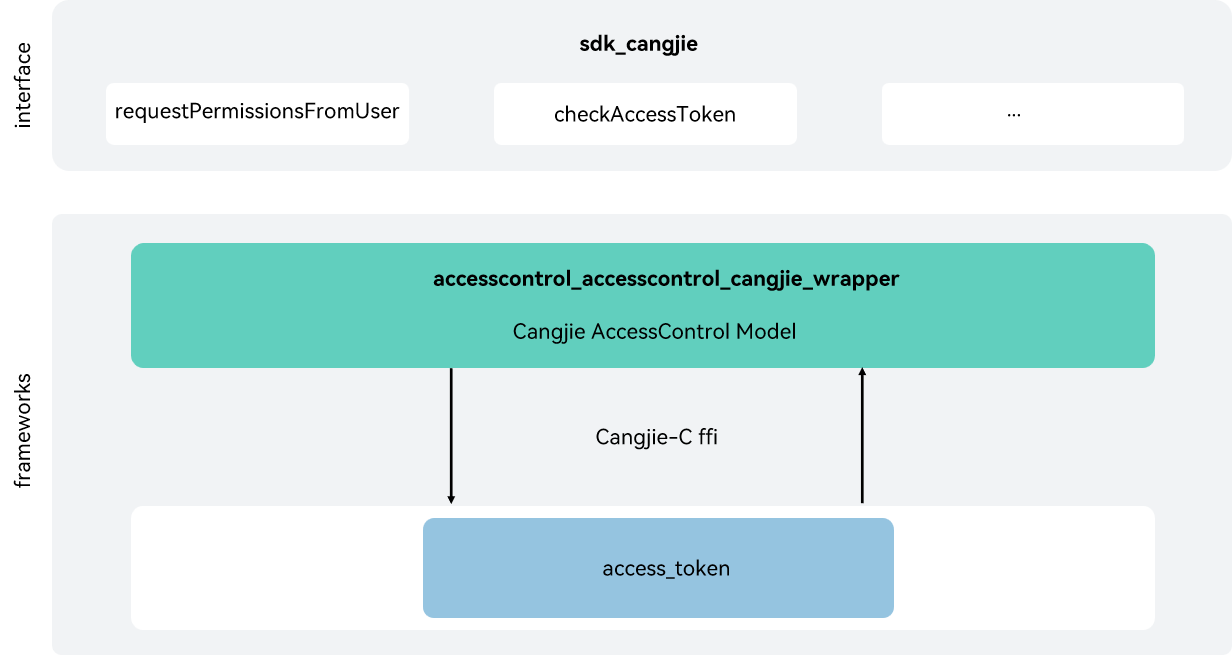
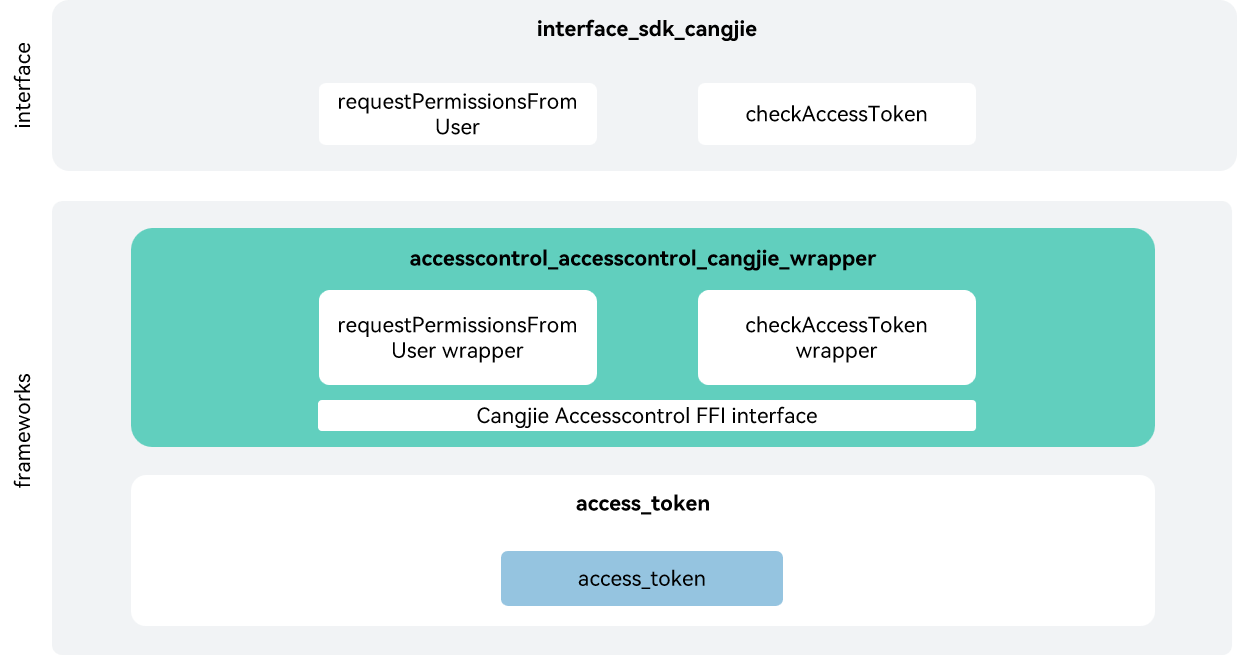
fix_readme_review

diff --git a/README_zh.md b/README_zh.md
@@ -1,37 +1,43 @@
-# 程序访问控制仓颉接口
+# 访问控制仓颉接口
 
 ## 简介
 
-程序访问控制仓颉接口是在OpenHarmony上基于AccessToken能力之上封装的仓颉API。应用的Accesstoken信息主要包括应用身份标识APPID、用户ID，应用分身索引、应用APL(Ability Privilege Level)等级、应用权限信息等。每个应用的Accesstoken信息由一个32bits的设备内唯一标识符TokenID(Token identity)来标识。
+访问控制仓颉接口是在OpenHarmony上基于AccessToken能力之上封装的仓颉API。应用的Accesstoken信息主要包括应用身份标识APPID、用户ID，应用分身索引、应用APL(Ability Privilege Level)等级、应用权限信息等。每个应用的Accesstoken信息由一个32bits的设备内唯一标识符TokenID(Token identity)来标识。仓颉接口提供应用程序的权限校验、申请和管理能力。当前开放的访问控制仓颉接口仅支持standard设备。
 
 ## 系统架构
 
-**图 1** 程序访问控制仓颉架构图
+**图 1** 访问控制仓颉架构图
 
-![](figures/accesscontrol_cangjie_wrapper_architecture.png "程序访问控制仓颉架构图")
+![访问控制仓颉架构图](figures/accesscontrol_cangjie_wrapper_architecture.png)
+
+如架构图所示：
+
+- 请求用户授权：开发者可调用requestPermissionsFromUser接口请求用户授权，并返回此次权限申请的结果。访问控制提供应用程序的权限校验和管理能力。
+- 检验应用权限是否被授予： 开发者可通过checkAccessToken查看应用是否被授权。
+- 仓颉访问控制FFI接口定义：负责定义C互操作仓颉接口，用于实现仓颉访问控制能力。
+- 访问控制模块：负责提供访问控制基础功能，封装C接口提供给仓颉进行互操作。
+
 
 ## 目录
 
-程序访问控制仓颉源码在base/accesscontrol/accesstrol_cangjie_wrapper下
+访问控制仓颉源码在base/accesscontrol/accesstrol_cangjie_wrapper下
 
 ```
 base/accesscontrol/accesscontrol_cangjie_wrapper
-├── figures                 # 存放readme中的架构图
-└── ohos                    # 仓颉程序访问控制接口
-    ├── ability_access_ctrl # 仓颉程序访问控制管理接口
+├── figures                 # 存放README中的架构图
+└── ohos                    # 仓颉访问控制接口
+    ├── ability_access_ctrl # 仓颉访问控制管理接口
     └── security            # 权限请求结果对象
 ```
 
-## 约束
-
-当前开放的程序访问控制仓颉接口仅支持standard设备。
 
 ## 使用说明
 
-如架构图所示，程序访问控制仓颉接口以下功能接口，开发者可以根据使用诉求，综合使用一类或多类接口：
+访问控制仓颉接口提供以下功能，开发者可以根据使用诉求，综合使用一类或多类接口：
 
-  - 程序访问控制提供应用程序的权限校验和管理能力。用户可通过提供的接口申请和查看应用权限。
+  - 访问控制提供应用程序的权限校验和管理能力。开发者可通过提供的接口申请和查看应用权限。
   - 权限请求结果对象可以在用户调用requestPermissionsFromUser接口申请权限时返回此次权限申请的结果。
+
 
 与ArkTS相比，暂不支持以下功能：
 
@@ -39,7 +45,8 @@ base/accesscontrol/accesscontrol_cangjie_wrapper
   - 拉起全局开关设置。
   - 二次拉起权限设置弹窗。
 
-程序访问控制相关API请参见[ohos.ability_access_ctrl（程序访问控制管理）](https://gitcode.com/openharmony-sig/arkcompiler_cangjie_ark_interop/blob/master/doc/API_Reference/source_zh_cn/apis/AbilityKit/cj-apis-ability_access_ctrl.md)，相关指导请参见[程序框架服务开发指南](https://gitcode.com/openharmony-sig/arkcompiler_cangjie_ark_interop/tree/master/doc/Dev_Guide/source_zh_cn/application-models)。
+
+访问控制相关API请参见[ohos.ability_access_ctrl（程序访问控制管理）](https://gitcode.com/openharmony-sig/arkcompiler_cangjie_ark_interop/blob/master/doc/API_Reference/source_zh_cn/apis/AbilityKit/cj-apis-ability_access_ctrl.md)，相关指导请参见[程序框架服务开发指南](https://gitcode.com/openharmony-sig/arkcompiler_cangjie_ark_interop/tree/master/doc/Dev_Guide/source_zh_cn/application-models)。
 
 ## 参与贡献
 
@@ -48,3 +55,11 @@ base/accesscontrol/accesscontrol_cangjie_wrapper
 ## 相关仓
 
 [security_access_token](https://gitee.com/openharmony/security_access_token)
+
+[arkcompiler_cangjie_ark_interop](https://gitcode.com/openharmony-sig/arkcompiler_cangjie_ark_interop)
+
+[ability_ability_cangjie_wrapper](https://gitcode.com/openharmony-sig/ability_ability_cangjie_wrapper)
+
+[arkui_arkui_cangjie_wrapper](https://gitcode.com/openharmony-sig/arkui_arkui_cangjie_wrapper)
+
+[hiviewdfx_hiviewdfx_cangjie_wrapper](https://gitcode.com/openharmony-sig/hiviewdfx_hiviewdfx_cangjie_wrapper)

diff --git a/README.md b/README.md
@@ -2,13 +2,20 @@
 
 ## Introduction
 
-The accesscontrol_cangjie_wrapper is a Cangjie API encapsulated on OpenHarmony based on the access_token capability. The access_token information of the application mainly includes the application identity APPID, user ID, application clone index, application APL (Ability Privilege Level) level, application permission information, etc. The access_token information of each application is identified by a 32-bit unique device identifier, TokenID.
+The accesscontrol_cangjie_wrapper is a Cangjie API encapsulated on OpenHarmony based on the access_token capability. The access_token information of the application mainly includes the application identity APPID, user ID, application clone index, application APL (Ability Privilege Level) level, application permission information, etc. The access_token information of each application is identified by a 32-bit unique device identifier, TokenID. Cangjie apis provides APIs for application permission management, including authentication and authorization. The currently accesscontrol Cangjie api only supports standard devices.
 
 ## System Architecture
 
 **Figure 1** System architecture of accesscontrol_cangjie_wrapper
 
-![](figures/accesscontrol_cangjie_wrapper_architecture_en.png "accesscontrol_cangjie_wrapper architecture")
+![accesscontrol_cangjie_wrapper architecture](figures/accesscontrol_cangjie_wrapper_architecture_en.png)
+
+As shown in the architecture diagram:
+
+- requestPermissionsFromUser: Developers can call the requestPermissionsFromUser to request user authorization, and the result of this permission application will be returned.
+- checkAccessToken: accesscontrol_cangjie_wrapper provides permission verification and management capabilities for applications. Developers can use checkAccessToken to check whether an application has been authorized.
+- Cangjie Accesscontrol FFI interface: Based on cross-language interoperability via C interfaces to implement accesscontrol Cangjie API.
+- access_token: It is responsible for providing basic functions of application access control, and encapsulates C interfaces to provide interoperability for Cangjie.
 
 ## Directory Structure
 
@@ -22,10 +29,6 @@ base/accesscontrol/accesscontrol_cangjie_wrapper
     └── security            # Permission request result object
 ```
 
-## Constraints
-
-The currently open accesscontrol Cangjie api only supports standard devices.
-
 ## Usage Guidelines
 
 The following features are provided:
@@ -33,11 +36,13 @@ The following features are provided:
   - The AbilityAccessCtrl module provides APIs for application permission management, including authentication and authorization.
   - The PermissionRequestResult module defines the permission request result returned by requestPermissionsFromUser.
 
+
 The following features are not provided yet:
 
   - Check the status of application permissions.
   - Displays a dialog box for setting a global swich.
   - Displays a permission settings dialog box to grant permissions the second time.
+
 
 For Accesscontrol-related APIs, please refer to [ohos.ability_access_ctrl (Application Access Control Management)](https://gitcode.com/openharmony-sig/arkcompiler_cangjie_ark_interop/blob/master/doc/API_Reference/source_en/apis/AbilityKit/cj-apis-ability_access_ctrl.md). For relevant guidance, please refer to [Ability Kit Guide](https://gitcode.com/openharmony-sig/arkcompiler_cangjie_ark_interop/tree/master/doc/Dev_Guide/source_en/application-models).
 
@@ -48,3 +53,11 @@ Developers are welcome to contribute code, documentation, etc. For specific cont
 ## Repositories Involved
 
 [security_access_token](https://gitee.com/openharmony/security_access_token)
+
+[arkcompiler_cangjie_ark_interop](https://gitcode.com/openharmony-sig/arkcompiler_cangjie_ark_interop)
+
+[ability_ability_cangjie_wrapper](https://gitcode.com/openharmony-sig/ability_ability_cangjie_wrapper)
+
+[arkui_arkui_cangjie_wrapper](https://gitcode.com/openharmony-sig/arkui_arkui_cangjie_wrapper)
+
+[hiviewdfx_hiviewdfx_cangjie_wrapper](https://gitcode.com/openharmony-sig/hiviewdfx_hiviewdfx_cangjie_wrapper)